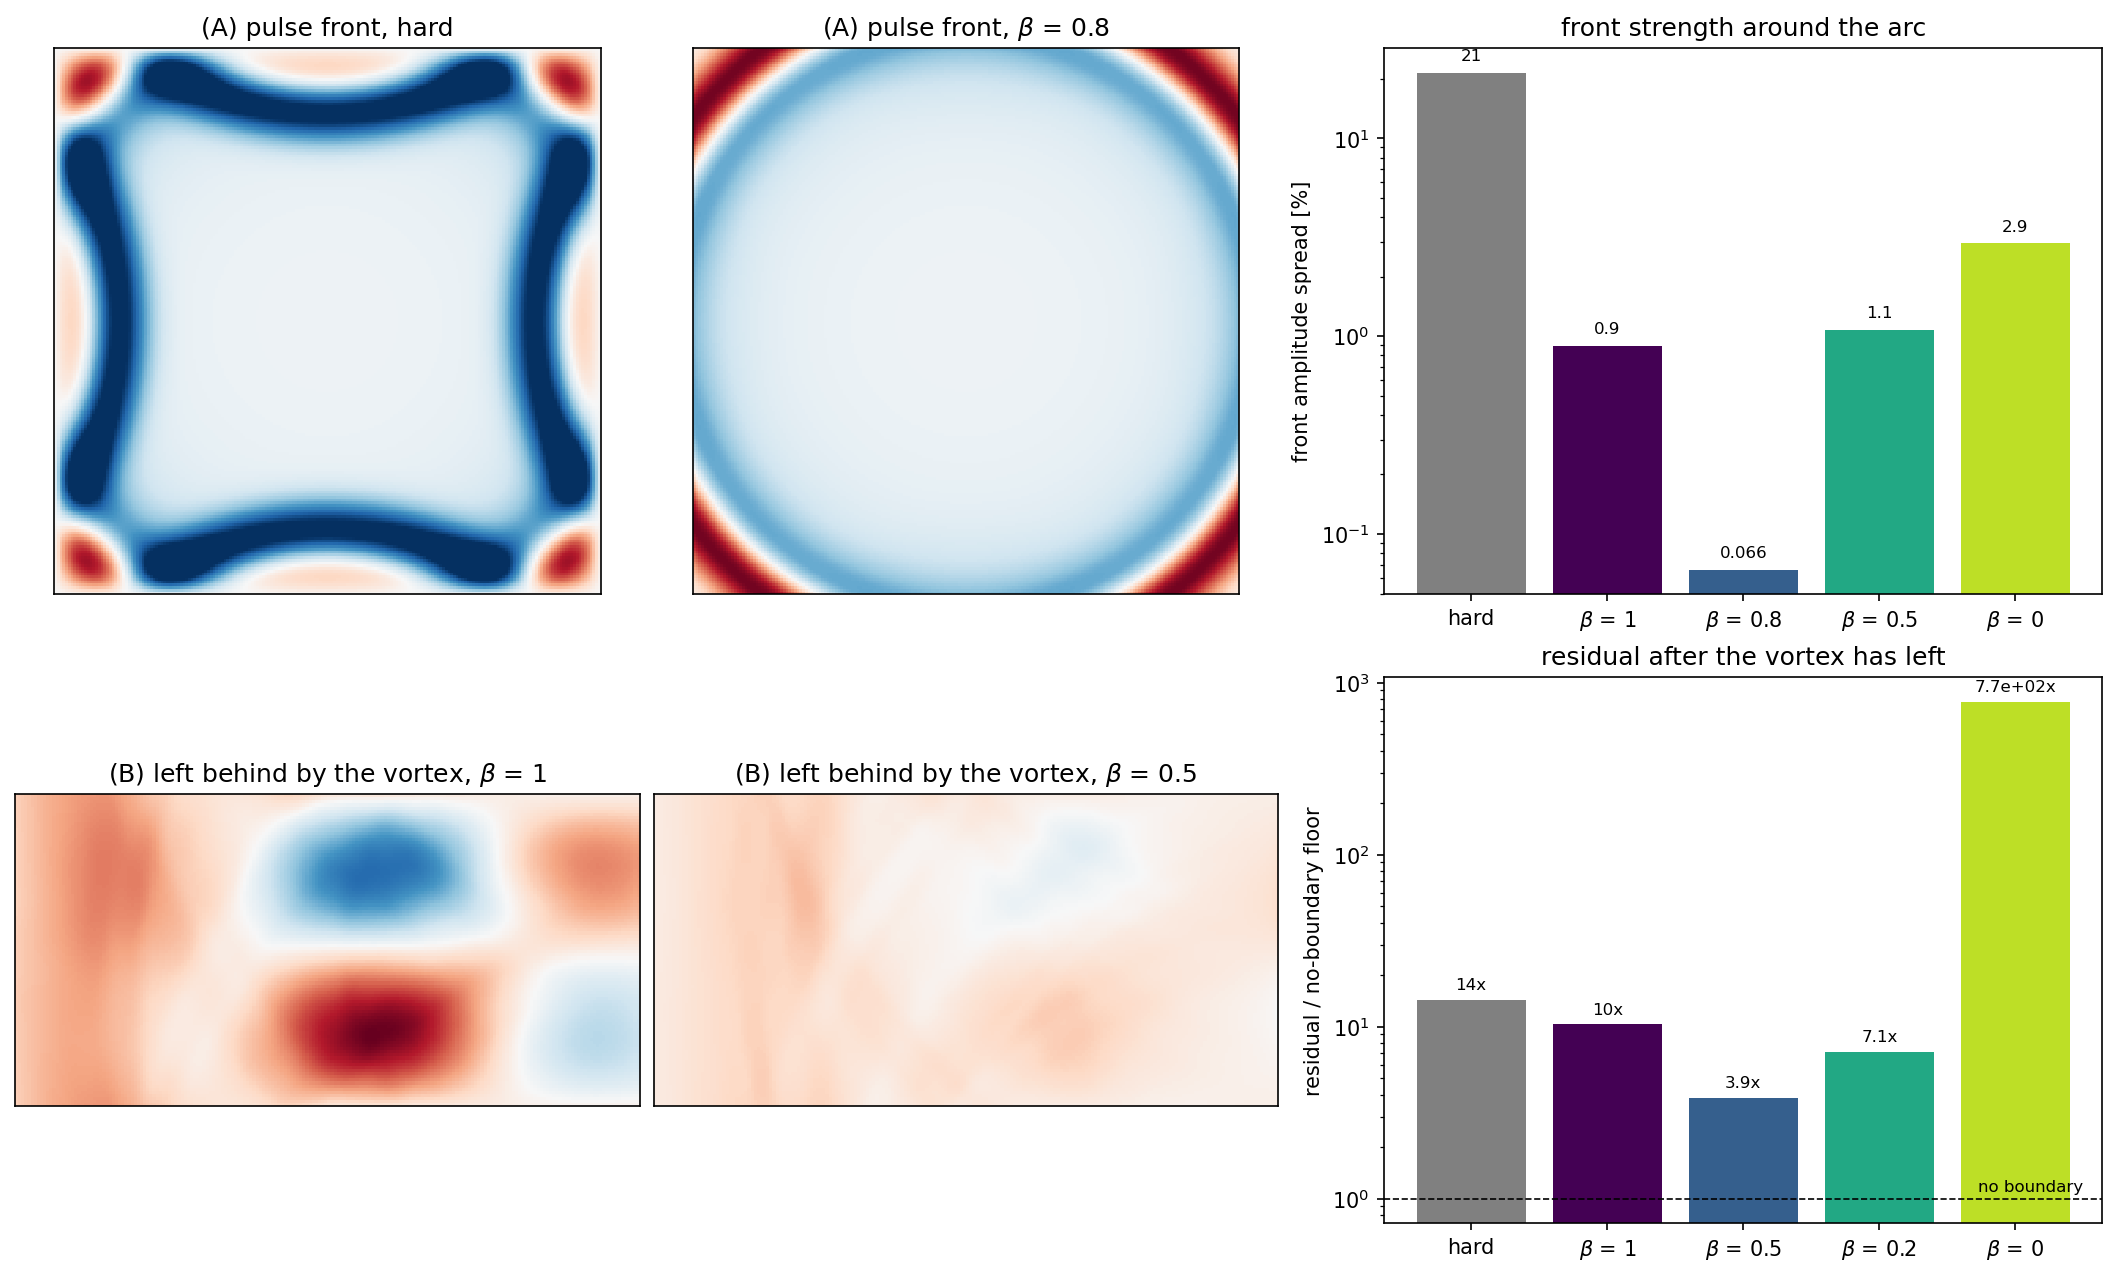
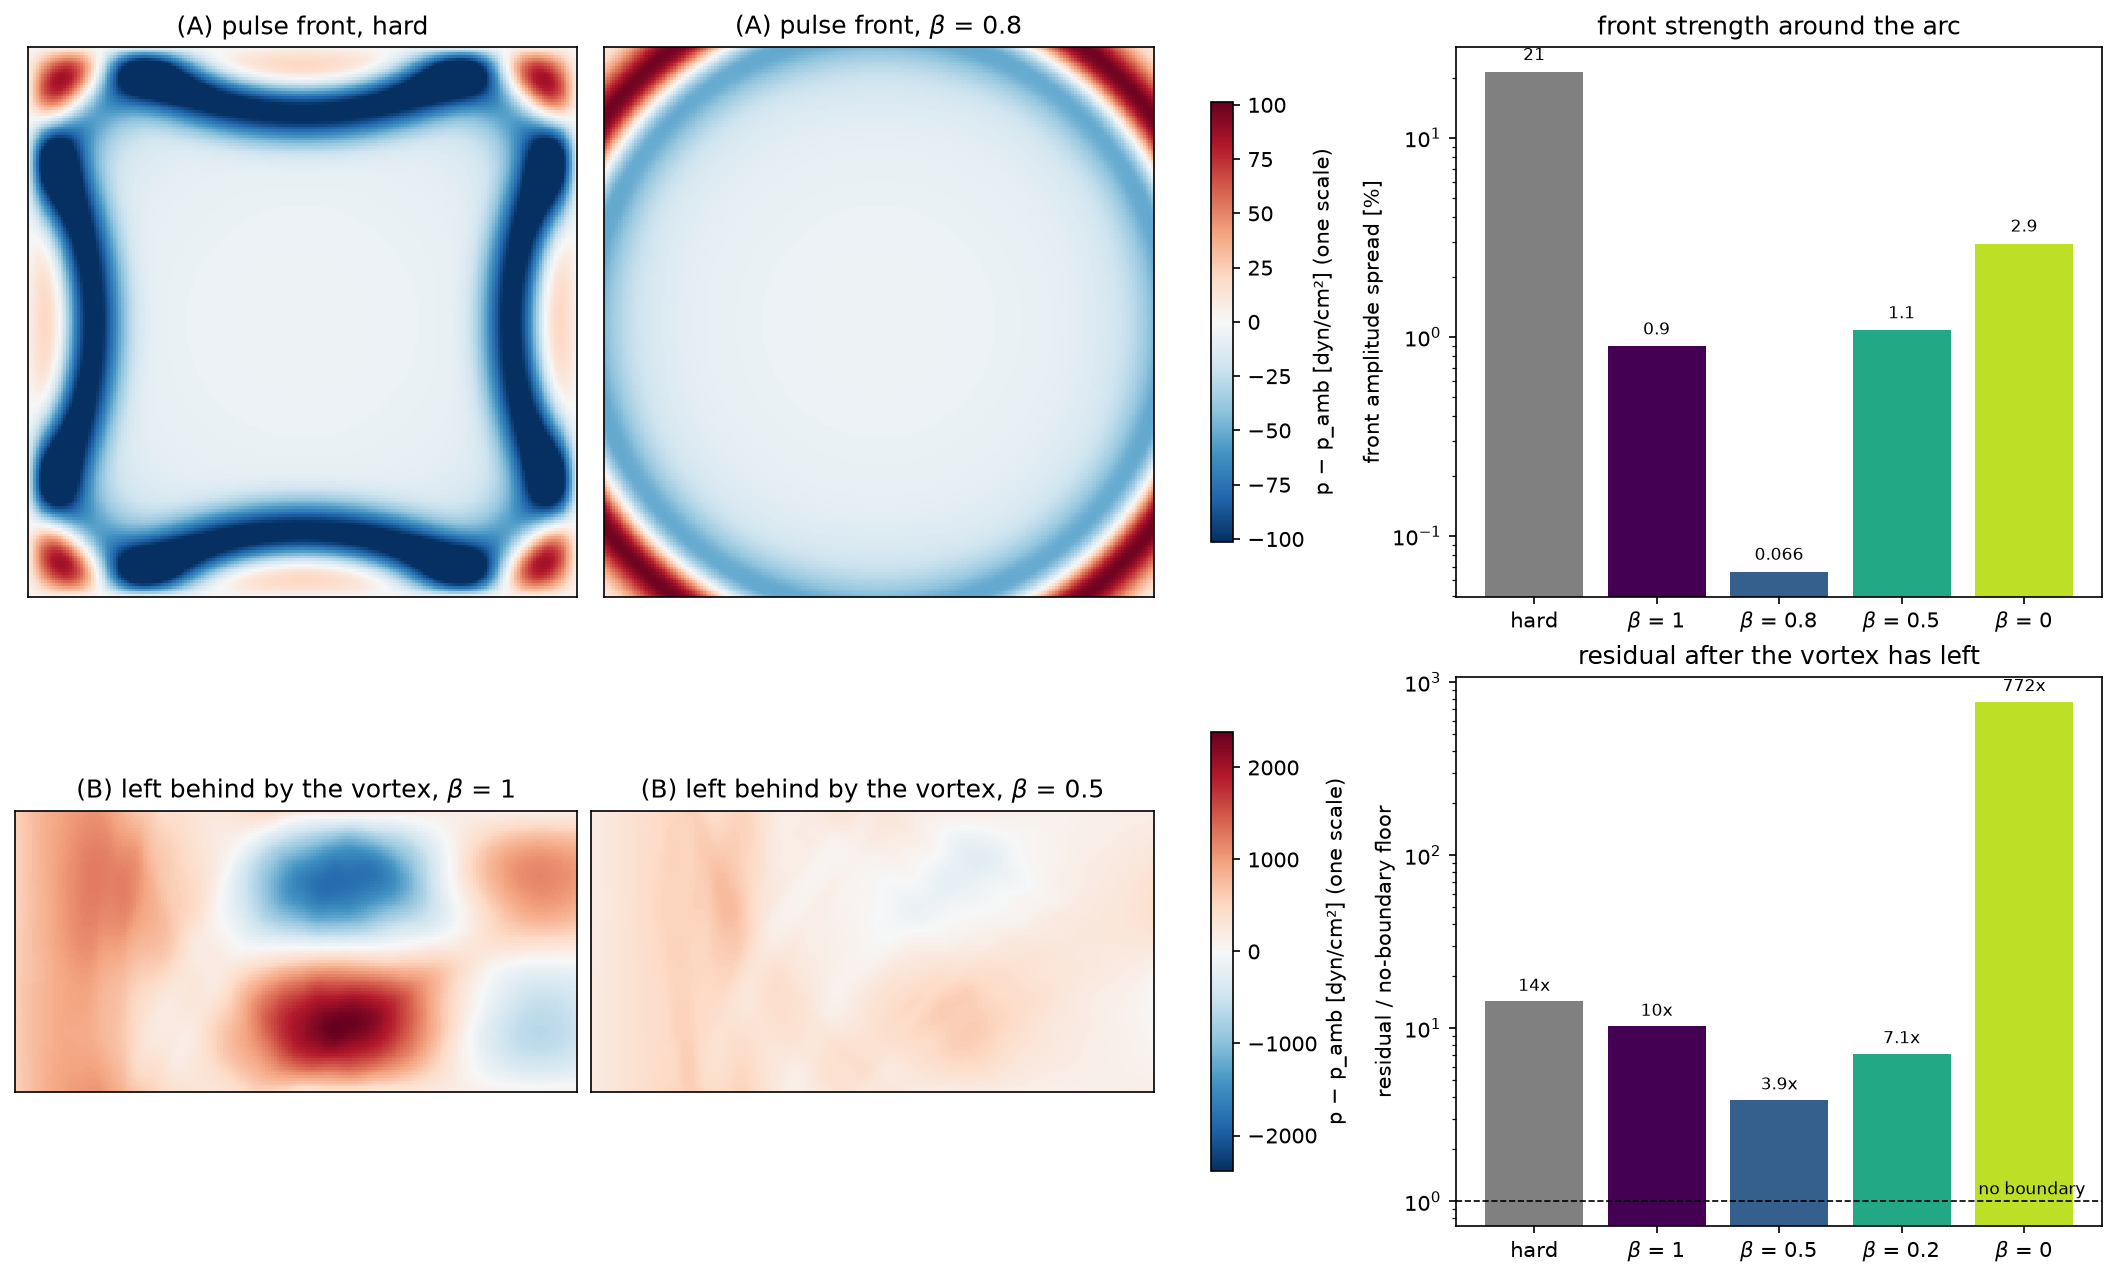
NSCBC tutorial rung 5: colour bars on the field maps, 772x not 7.7e+02x
From the fresh-clone walk-through: run.sh took 4 min 14 s including the
COVO build, as the README says, and every number reproduced the
references exactly. The figure now shows that each pair of maps shares
one colour scale (which is what makes beta = 0.5's residual look so much
fainter than beta = 1's), and the beta = 0 bar reads 772x as in the text.

diff --git a/Exec/Tutorials/NSCBC/05-transverse/plot.py b/Exec/Tutorials/NSCBC/05-transverse/plot.py
@@ -70,8 +70,8 @@ for tag, label in PULSE:
     if tag in ("hard", "b0.8"):
         a = ax[{"hard": "ph", "b0.8": "p8"}[tag]]
         lim = 1.0e-4 * nt.P_AMB
-        a.pcolormesh(d["x"], d["y"], dp.T, cmap="RdBu_r", vmin=-lim, vmax=lim,
-                     shading="auto")
+        im_a = a.pcolormesh(d["x"], d["y"], dp.T, cmap="RdBu_r", vmin=-lim,
+                            vmax=lim, shading="auto")
         a.set_aspect("equal")
         a.set_title(f"(A) pulse front, {label}")
         a.set_xticks([])
@@ -100,8 +100,8 @@ for tag, key in [("b1.0", "v1"), ("b0.5", "v5")]:
                 ["pressure"])
     dp = d["pressure"] - nt.P_AMB
     lim = lim or np.abs(dp).max()
-    ax[key].pcolormesh(d["x"], d["y"], dp.T, cmap="RdBu_r", vmin=-lim,
-                       vmax=lim, shading="auto")
+    im_b = ax[key].pcolormesh(d["x"], d["y"], dp.T, cmap="RdBu_r", vmin=-lim,
+                              vmax=lim, shading="auto")
     ax[key].set_aspect("equal")
     ax[key].set_xticks([])
     ax[key].set_yticks([])
@@ -127,5 +127,10 @@ ax["B"].set_xticks(range(len(COVO)), [p[1] for p in COVO])
 ax["B"].set_ylabel("residual / no-boundary floor")
 ax["B"].set_title("residual after the vortex has left")
 for i, r in enumerate(res):
-    ax["B"].text(i, r * 1.15, f"{r:.2g}x", ha="center", fontsize=8)
+    ax["B"].text(i, r * 1.15, f"{r:.2g}x" if r < 100 else f"{r:.0f}x",
+                 ha="center", fontsize=8)
+fig.colorbar(im_a, ax=[ax["ph"], ax["p8"]], shrink=0.8,
+             label="p − p_amb [dyn/cm²] (one scale)")
+fig.colorbar(im_b, ax=[ax["v1"], ax["v5"]], shrink=0.8,
+             label="p − p_amb [dyn/cm²] (one scale)")
 nt.save(fig, "transverse.png")
